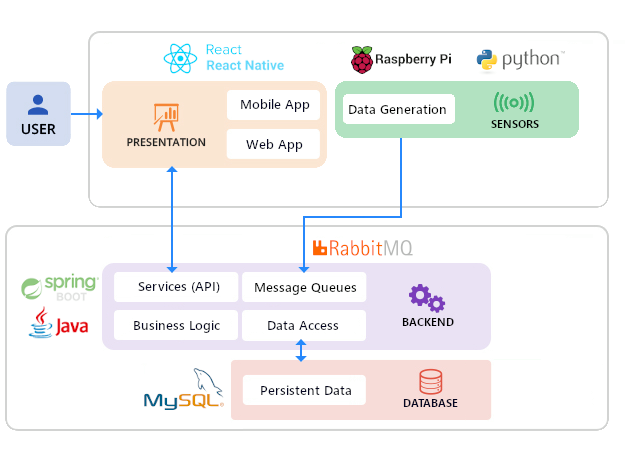
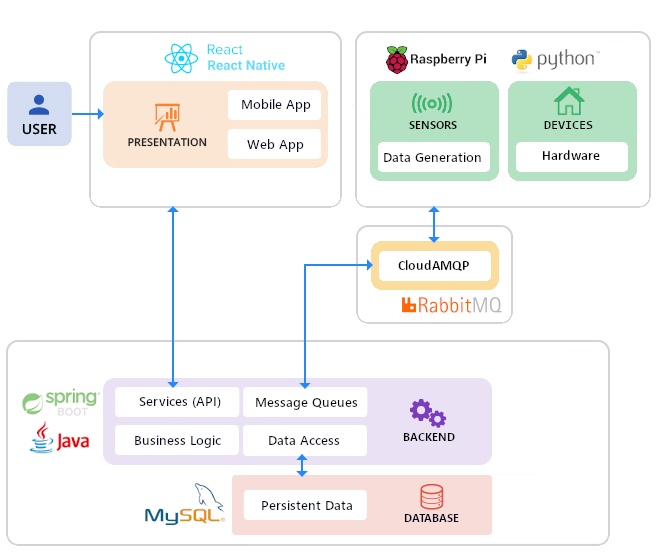
final diagrams

diff --git a/README.md b/README.md
@@ -112,6 +112,10 @@ RabbitMQ is going to receive the messages from the sensors and pass them to the 
 
 For the backend of our System, since we got to know the Spring framework from the practical classes of this course and it was highly recommended by the Teacher, we will use Spring.
 
+## Deployment Diagram
+
+![](./reports/deployment-diagram.png)
+
 ## Project Resources Bookmarks
 
 [Google Drive ](https://drive.google.com/drive/folders/1Nwdul_tBhj4nKEn1nzR1FGi_7EghT7Ay?usp=sharing )
